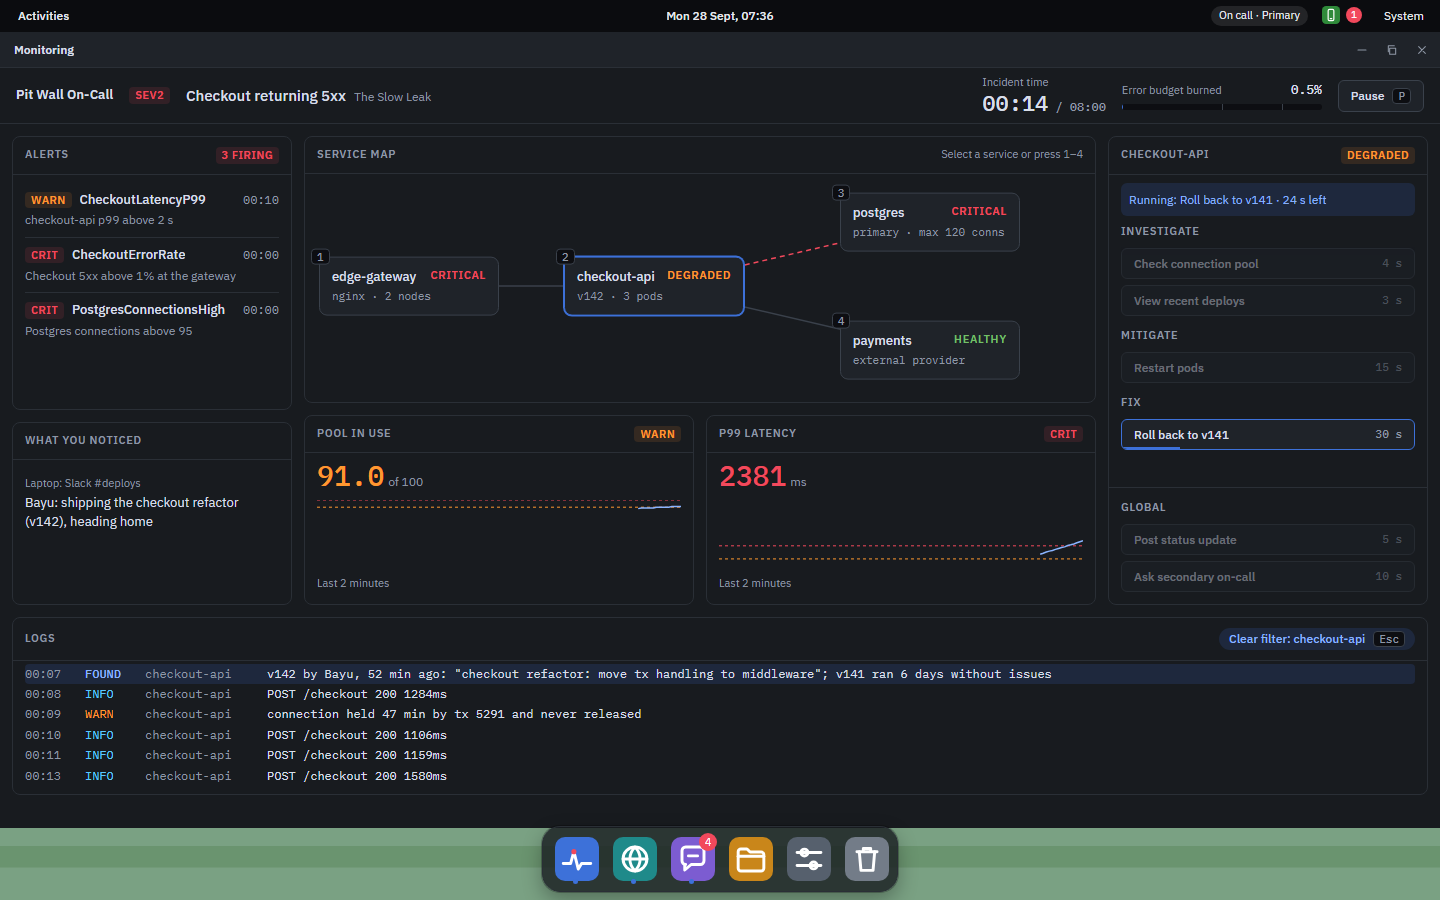
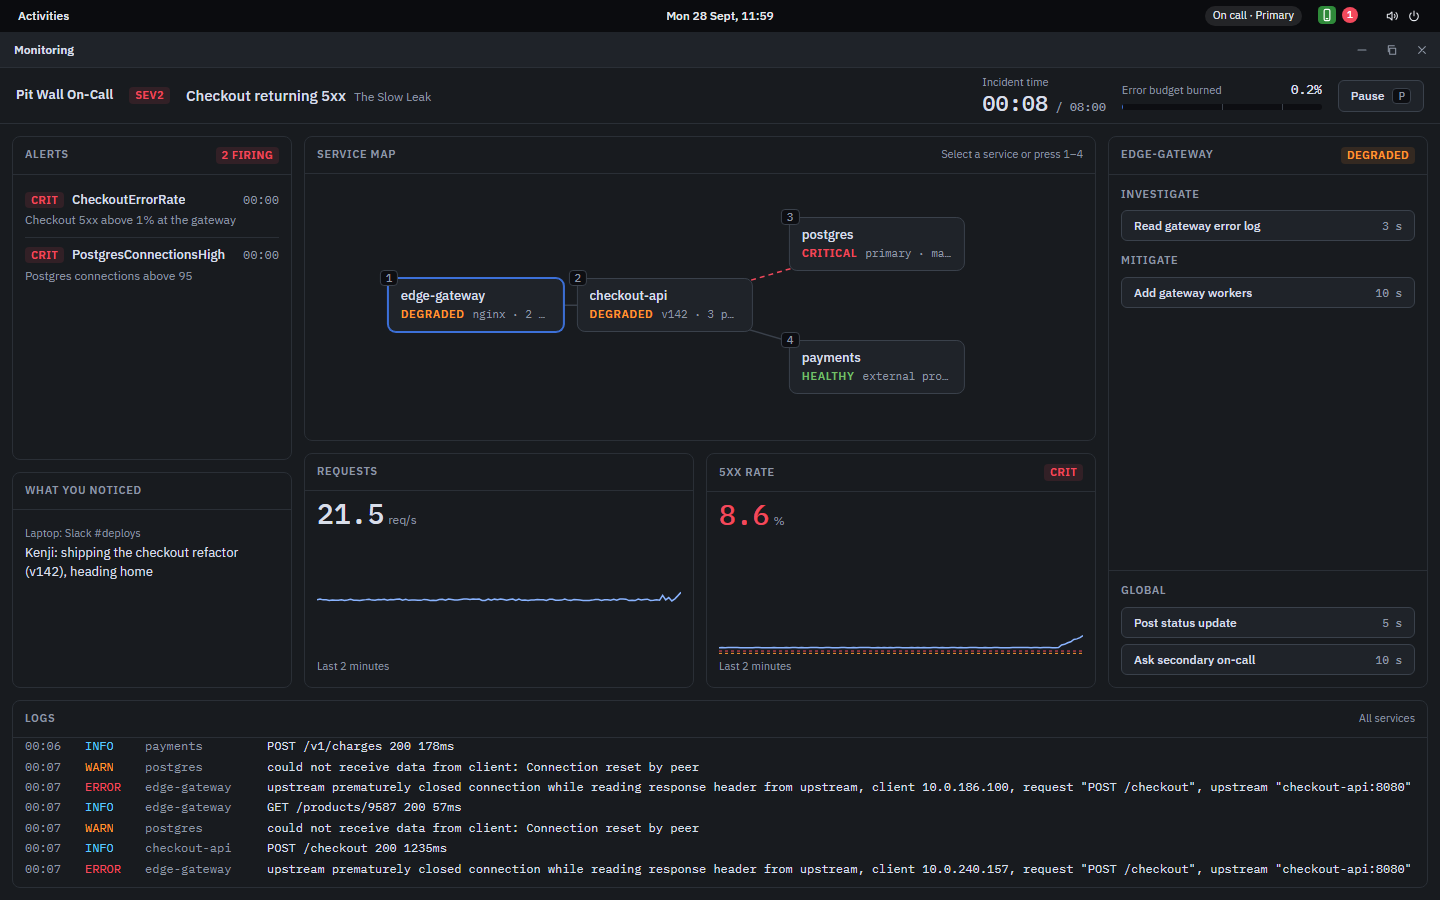
docs: refresh README screenshots for M1.5.1

diff --git a/README.md b/README.md
@@ -17,6 +17,8 @@ Start shift goes full screen and the pager rings (synthesized with WebAudio, no 
 3. **Monitoring.** A service map, focused metrics, a log stream and per-service actions. Actions take time, you can run one at a time, and some of them make things worse.
 4. **The postmortem.** It opens as `postmortem.md` and shows budget burned, when you mitigated, whether you found the root cause, how fast you acknowledged, the clues you found, the burn broken down by cause, a timeline with a verdict on each action, and one lesson.
 
+![Chat before the page: the deploy that started it](docs/media/chat.png)
+
 ![Monitoring during an incident](docs/media/monitoring.png)
 
 Windows open, snap and maximize like on a GNOME desktop, and single-key shortcuts (`O` overview, `M` maximize, `[` `]` snap, `X` close, `A` acknowledge, `P` pause) can be turned off in Settings. On screens narrower than 1024 px, the site shows an on-call lockscreen instead.
